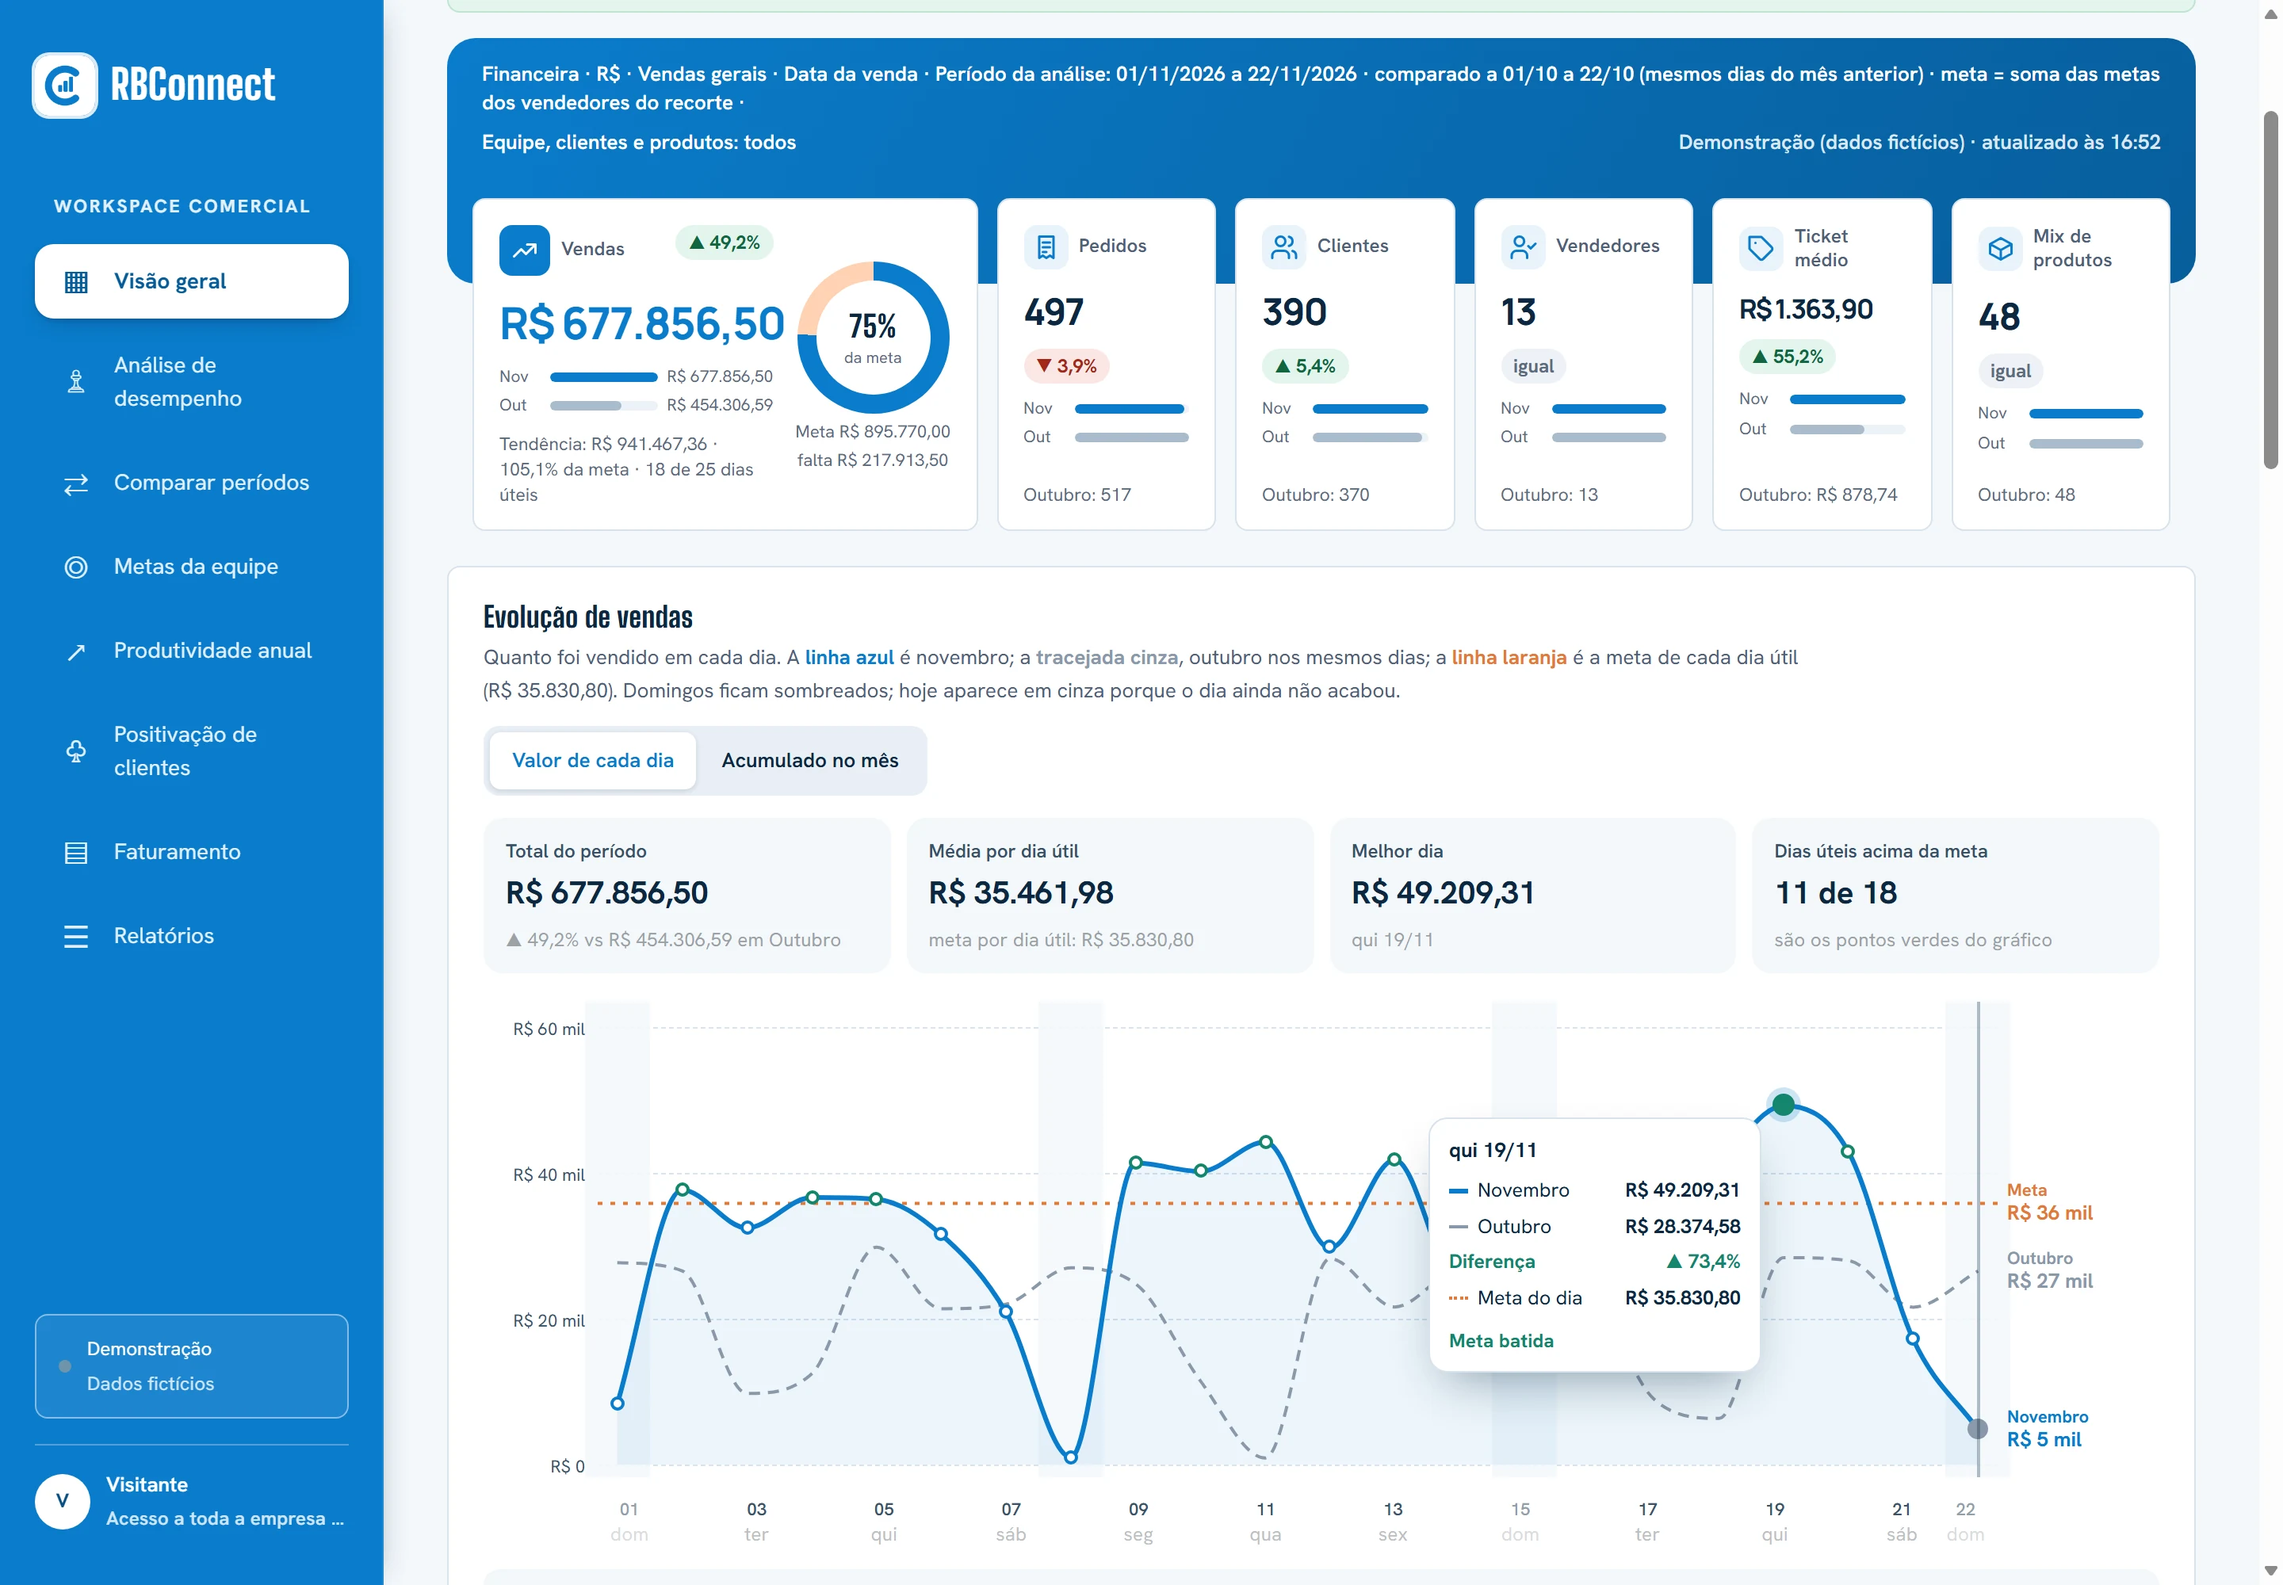
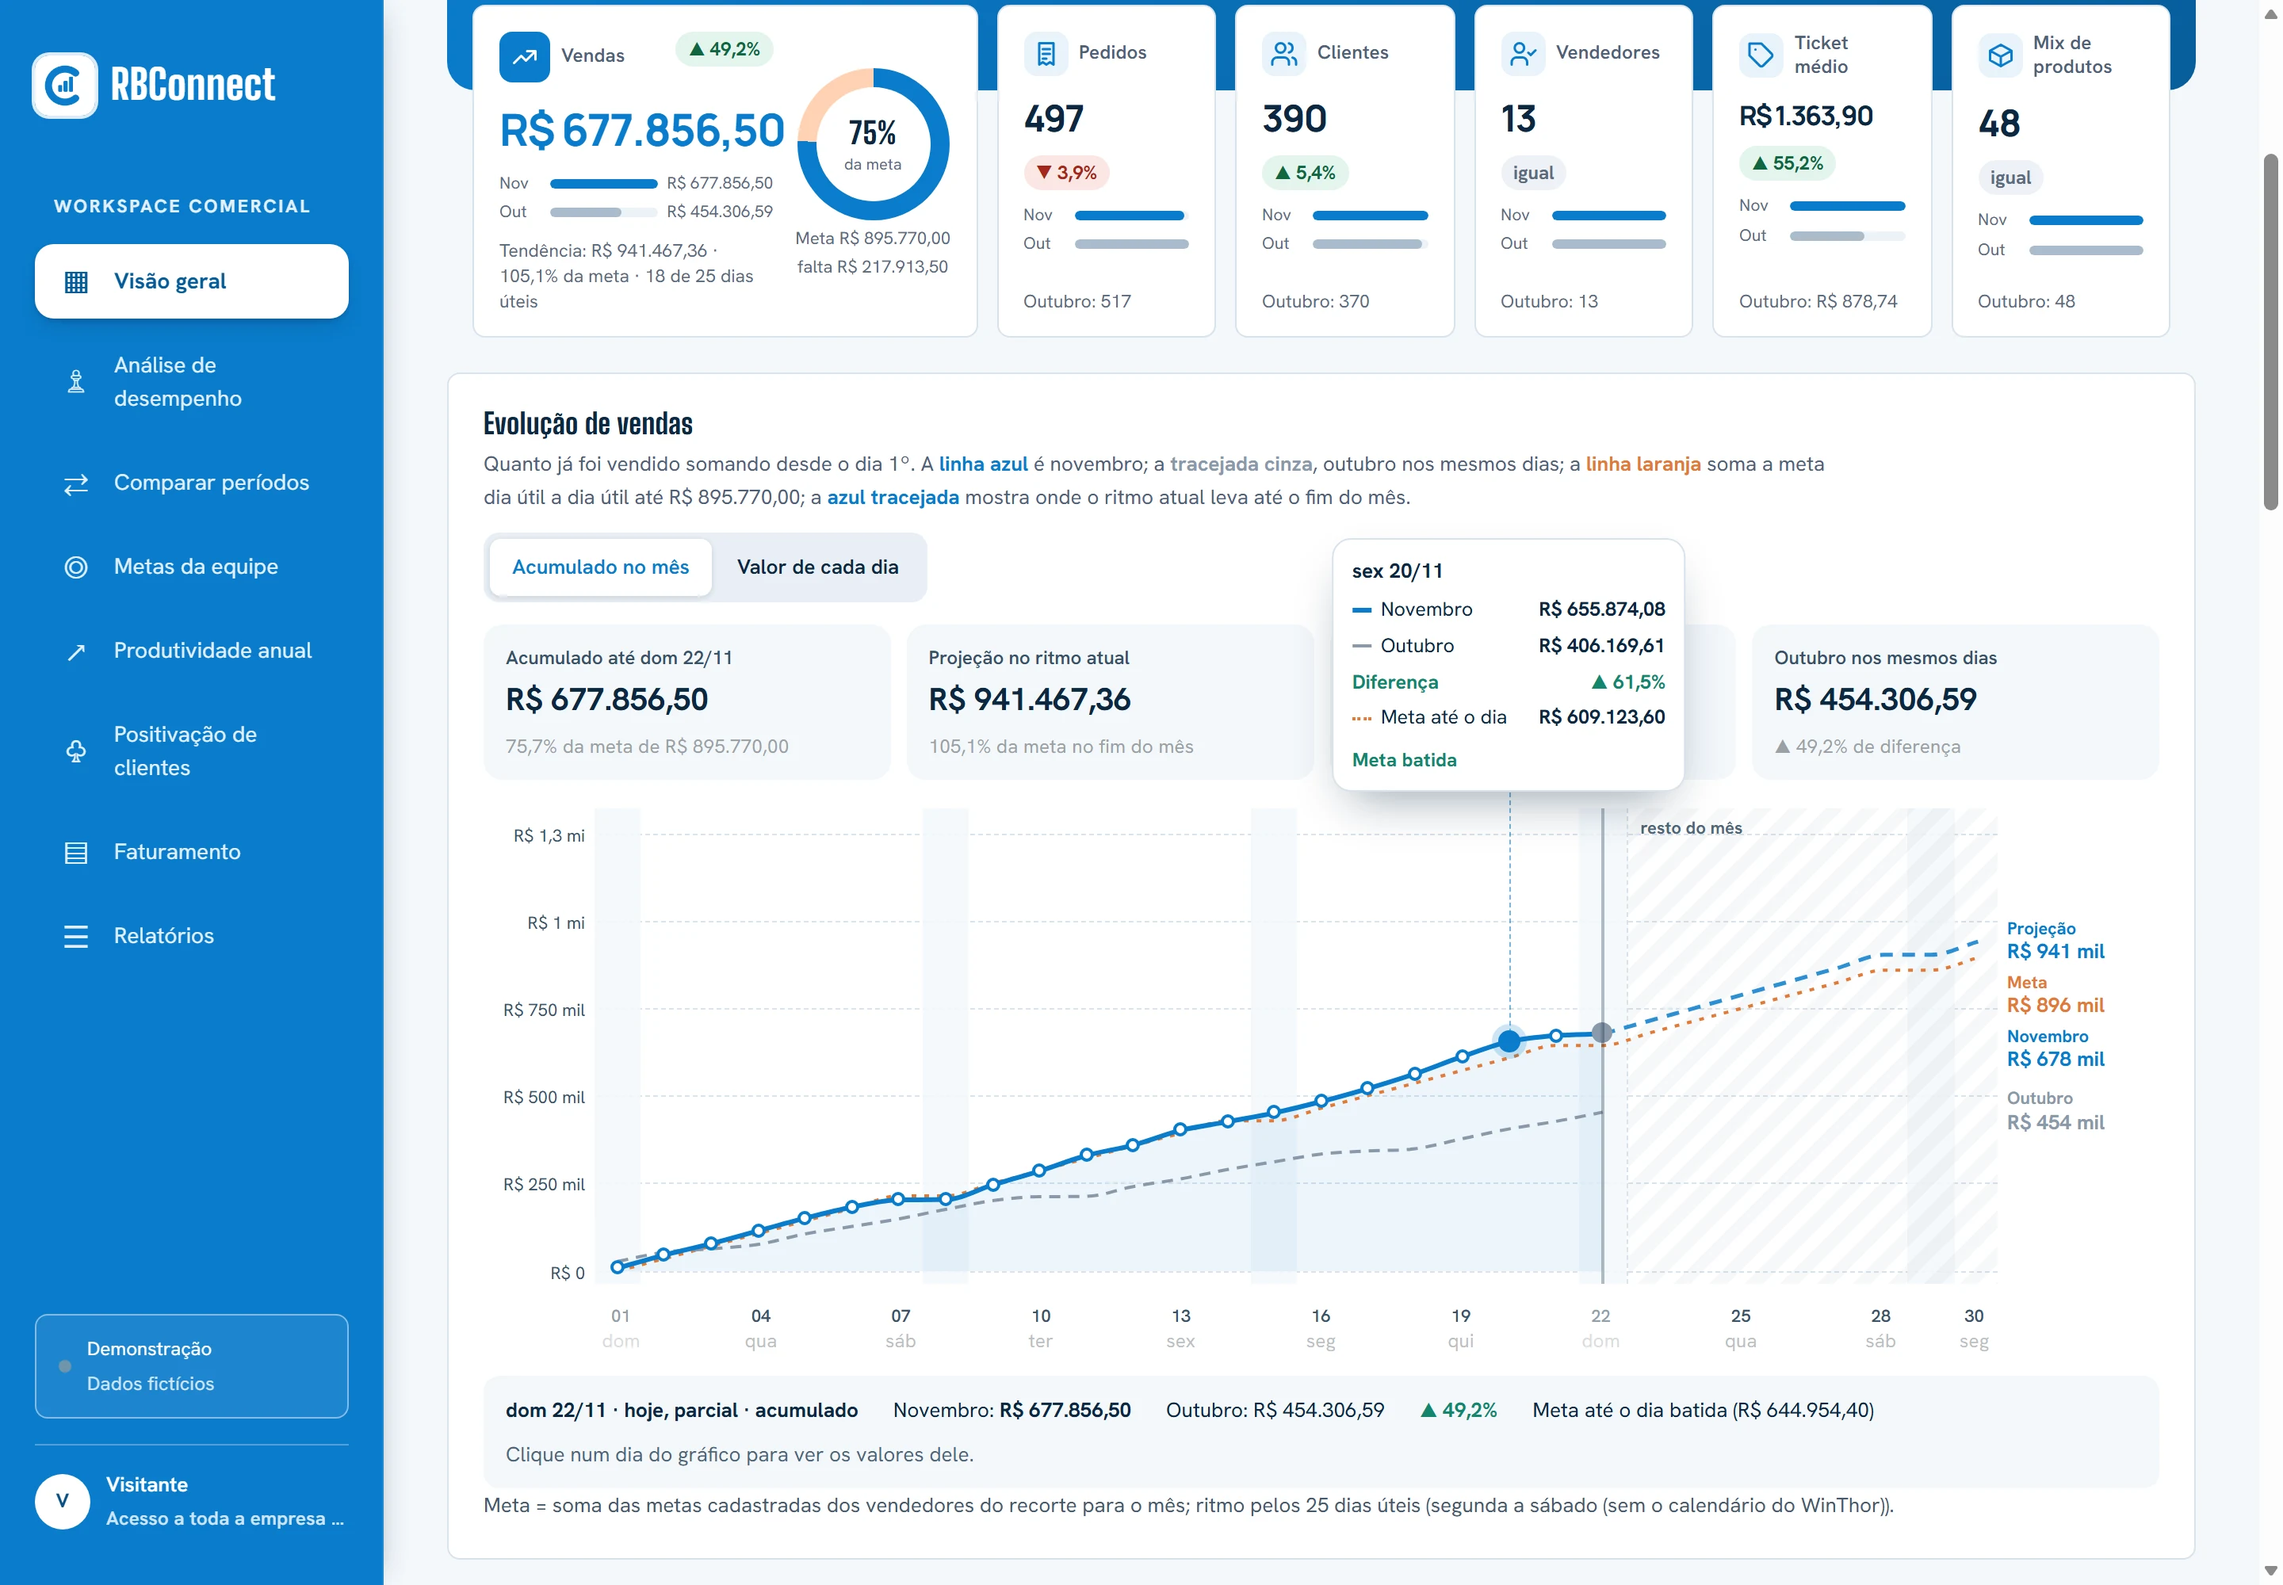
Portfólio: print da visão geral no acumulado, com o cartão acima do gráfico

diff --git a/index.html b/index.html
@@ -241,7 +241,7 @@ footer .limite { display: flex; justify-content: space-between; gap: 16px; flex-
         </ul>
       </div>
       <figure class="produto-imagem">
-        <img src="assets/connect-visao.webp" alt="RBConnect: visão geral com os indicadores do mês e a evolução de vendas, mostrando ao passar o mouse os valores do dia, do mês anterior e da meta" width="1440" height="1000" loading="lazy">
+        <img src="assets/connect-visao.webp" alt="RBConnect: visão geral com os indicadores do mês e a evolução de vendas acumulada, com o cartão do dia acima do gráfico mostrando novembro, outubro, a diferença e a meta até o dia" width="1440" height="1000" loading="lazy">
         <figcaption class="legenda">Visão geral do mês, dia a dia.</figcaption>
       </figure>
       <figure class="produto-imagem mini-painel">
